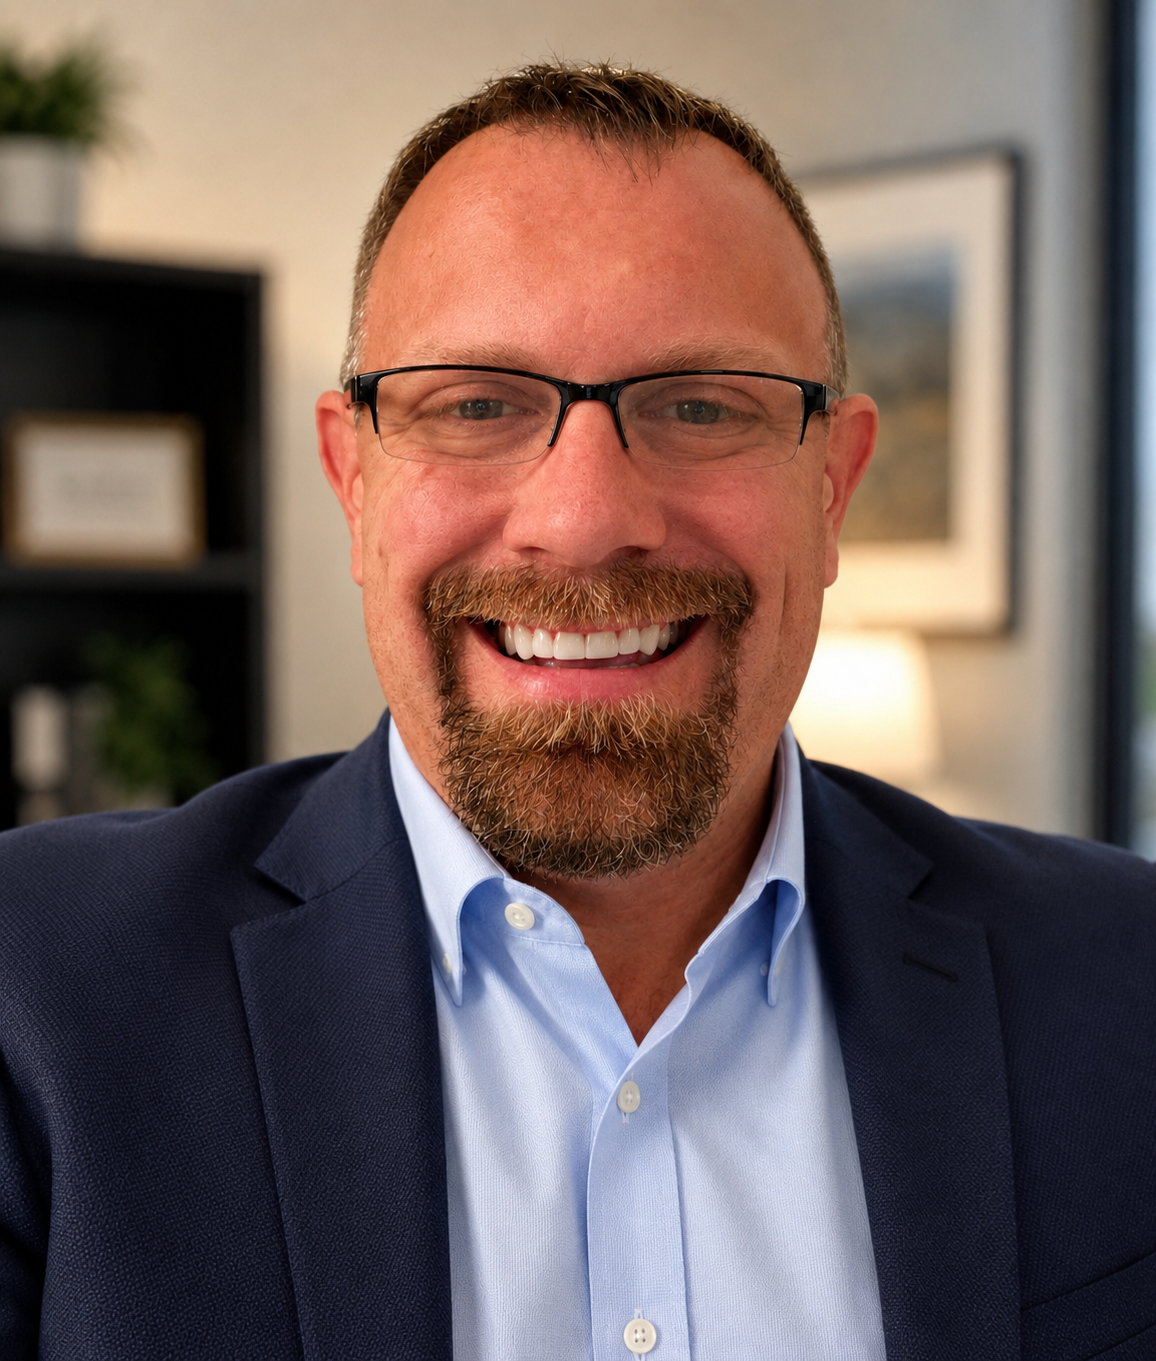
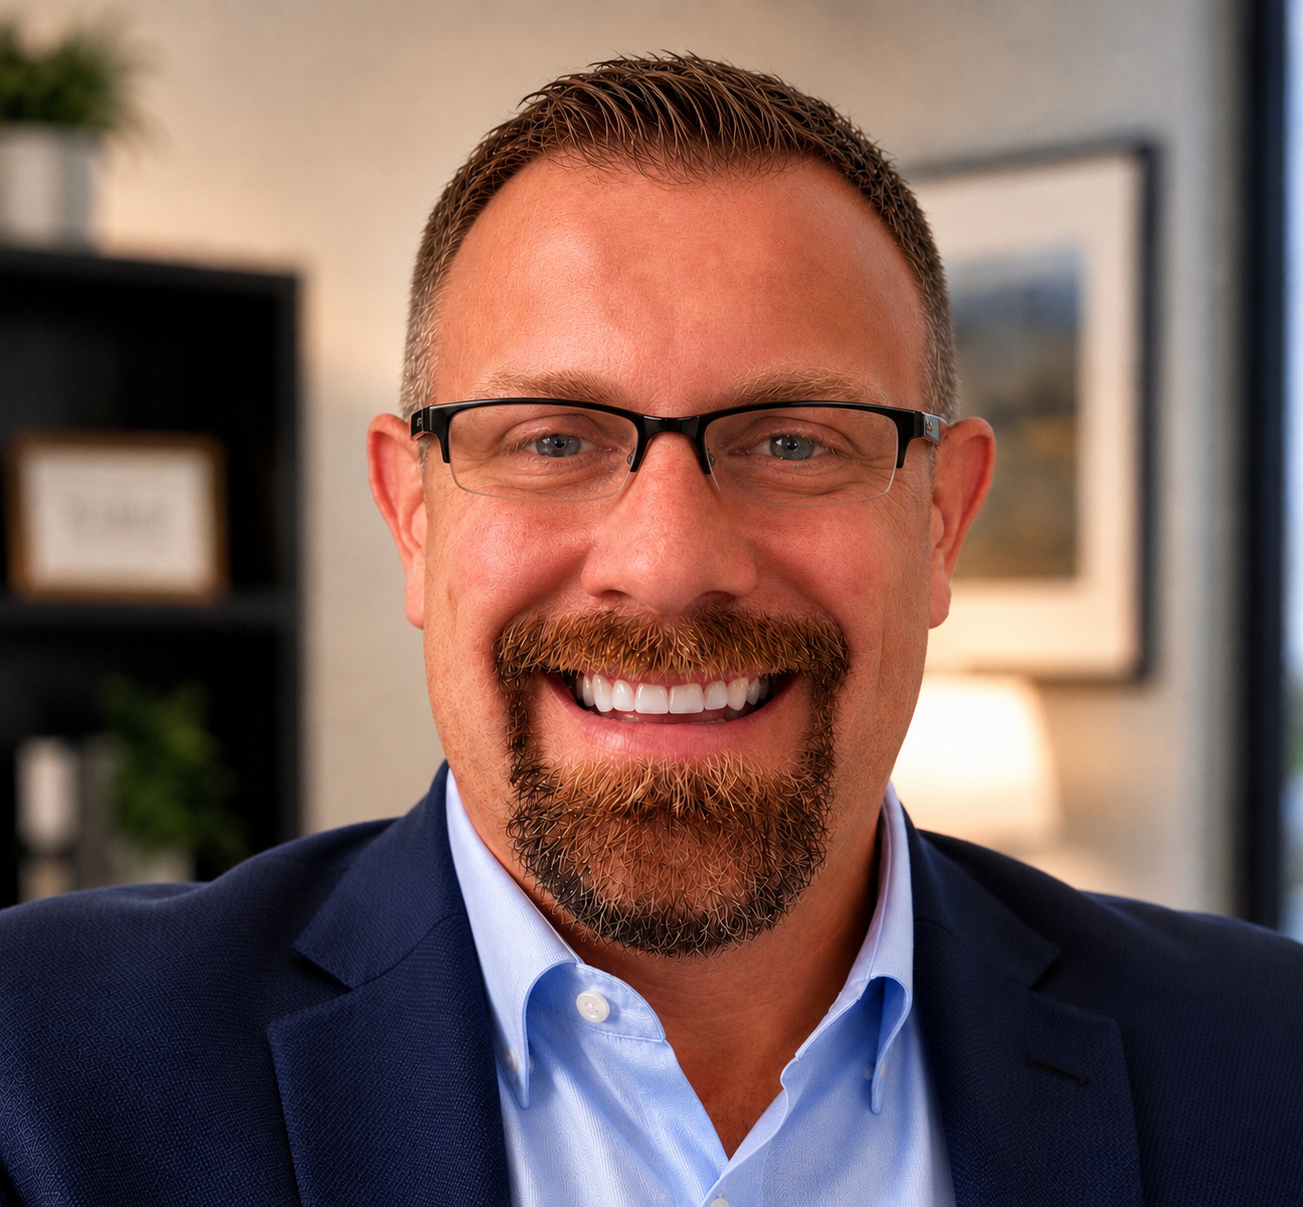
describe what you changed

diff --git a/src/pages/Home.jsx b/src/pages/Home.jsx
@@ -8,7 +8,7 @@ import consultationPhoto from '../assets/con1.jpg'
 import cleaningDayPhoto from '../assets/con2.jpg'
 import enjoyCleanPhoto from '../assets/con3.jpg'
 import repeatPhoto from '../assets/con4.jpg'
-import cleaningSupplies from '../assets/opt-cleaning-supplies.jpg'
+import cleaningSupplies from '../assets/cleaning-supplies.png'
 
 const cleaningSteps = [
   { photo: consultationPhoto, caption: 'Consultation' },
@@ -59,7 +59,7 @@ export default function Home() {
           <div className="grid lg:grid-cols-2 gap-10 lg:gap-16 items-center">
             <FadeIn>
               <div className="space-y-6">
-                <h2 className="text-2xl sm:text-4xl lg:text-5xl font-bold text-[#1E5DB8] leading-tight">
+                <h2 className="text-2xl sm:text-4xl lg:text-[2.5rem] xl:text-5xl font-bold text-[#1E5DB8] leading-tight text-balance">
                   We're Your Neighbors, Not Just Your Cleaners
                 </h2>
                 <div className="space-y-4 text-gray-700 text-lg leading-relaxed">

diff --git a/src/pages/JoinOurTeam.jsx b/src/pages/JoinOurTeam.jsx
@@ -29,13 +29,13 @@ const perks = [
     image: iconGrowth,
     imgClass: 'w-20 h-auto',
     title: 'Growth Opportunities',
-    desc: 'We invest in our people. Start with a few clients and grow your schedule over time by taking on more clients and building a steady cleaning route.',
+    desc: 'We invest in our people. Start with a few clients and grow your schedule over time by taking on more clients and building a steady cleaning route. Promotion to managerial positions available.',
   },
   {
     image: iconSupplies,
     imgClass: 'w-14 h-14',
     title: 'Supplies & Equipment',
-    desc: "We provide all the supplies and equipment you need, or you're welcome to use your own, the choice is yours.",
+    desc: 'We provide all the supplies and equipment you need and reimburse you for approved supplies you purchase and use.',
   },
   {
     image: iconLocation,

diff --git a/src/pages/AboutUs.jsx b/src/pages/AboutUs.jsx
@@ -1,5 +1,5 @@
 import FadeIn from '../components/FadeIn'
-import ceo from '../assets/opt-ceo.jpg'
+import ceo from '../assets/ceo.jpg'
 import president from '../assets/opt-president.jpg'
 
 const team = [
